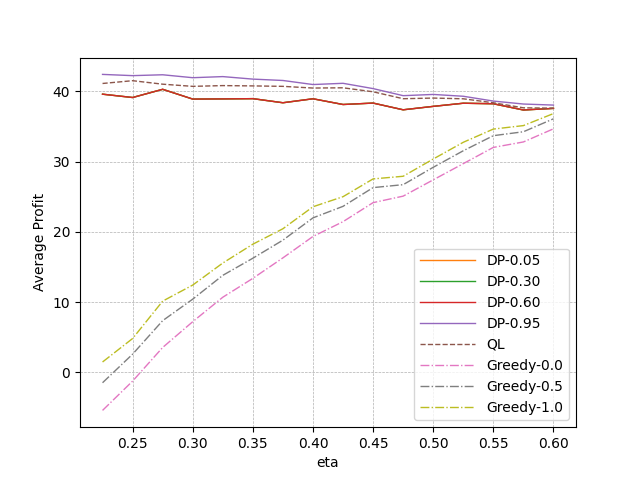
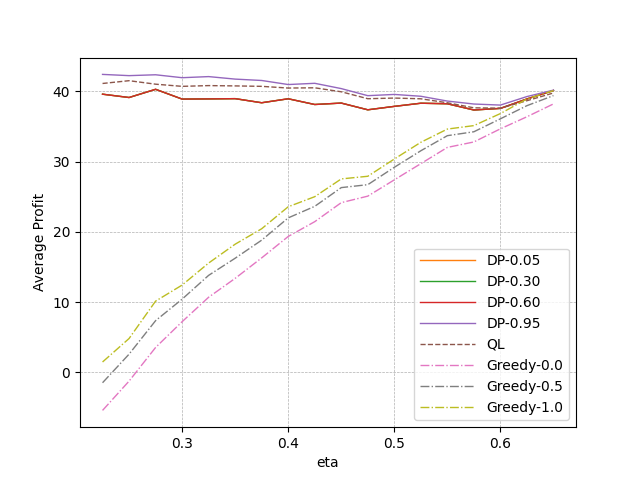
updated heter result

diff --git a/Single-Provider-Federation/v1.6-no-constraint-no-debug/PI-Gr-QL/check-heter/sim.py b/Single-Provider-Federation/v1.6-no-constraint-no-debug/PI-Gr-QL/check-heter/sim.py
@@ -25,11 +25,11 @@ if __name__ == "__main__":
 
     init_size = 0.1
     step = 0.025
-    scale = 20
+    scale = 30
 
     iterations = 20
     
-    i = 0
+    i = 21
 
     while i <= scale:
         m = init_size + i * step
